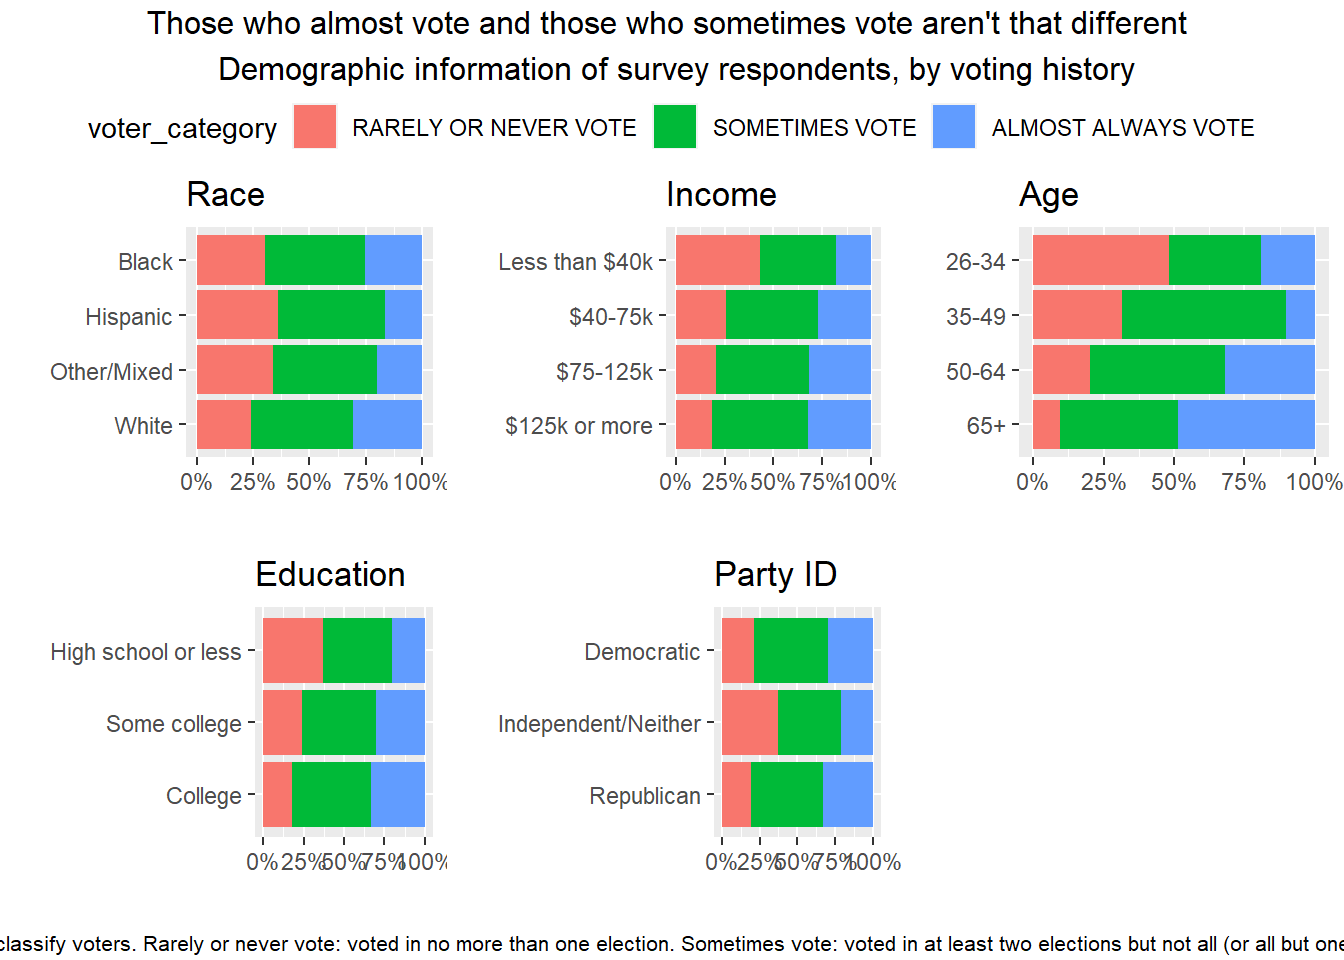
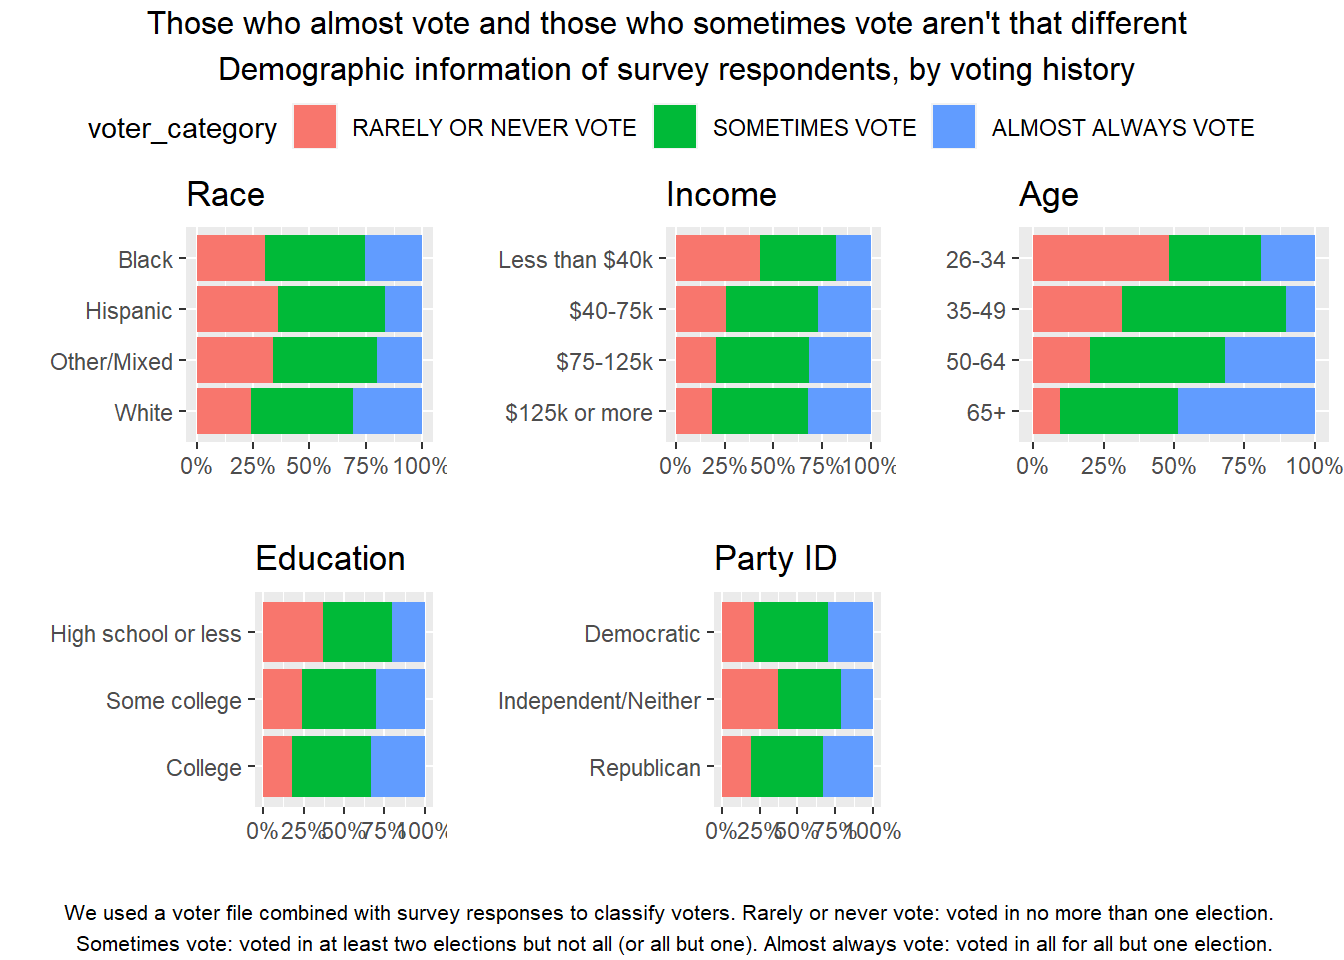
small changes

diff --git a/docs/visualization.html b/docs/visualization.html
@@ -438,13 +438,13 @@ $(document).ready(function () {
 <span id="cb21-11"><a href="#cb21-11" aria-hidden="true" tabindex="-1"></a>plot5<span class="ot">=</span><span class="fu">ggplot</span>(clean_data, <span class="fu">aes</span>(<span class="at">fill=</span>voter_category, <span class="at">x=</span>educ, <span class="at">y=</span>weight)) <span class="sc">+</span> <span class="fu">geom_bar</span>(<span class="at">position=</span><span class="st">&quot;fill&quot;</span>, <span class="at">stat=</span><span class="st">&quot;identity&quot;</span>) <span class="sc">+</span> <span class="fu">coord_flip</span>()<span class="sc">+</span> <span class="fu">scale_y_continuous</span>(<span class="at">labels=</span>scales<span class="sc">::</span>percent)<span class="sc">+</span><span class="fu">xlab</span>(<span class="at">label =</span> <span class="st">&quot;&quot;</span>) <span class="sc">+</span> <span class="fu">ylab</span>(<span class="at">label =</span> <span class="st">&quot;&quot;</span>) <span class="sc">+</span> <span class="fu">ggtitle</span>(<span class="st">&quot;Education&quot;</span>) <span class="sc">+</span> <span class="fu">scale_x_discrete</span>(<span class="at">limits =</span> <span class="fu">c</span>(<span class="st">&quot;College&quot;</span>,<span class="st">&quot;Some college&quot;</span>,<span class="st">&quot;High school or less&quot;</span>)) <span class="sc">+</span> <span class="fu">scale_fill_discrete</span>(<span class="at">limit =</span> <span class="fu">c</span>(<span class="st">&quot;RARELY OR NEVER VOTE&quot;</span>, <span class="st">&quot;SOMETIMES VOTE&quot;</span>, <span class="st">&quot;ALMOST ALWAYS VOTE&quot;</span>))</span>
 <span id="cb21-12"><a href="#cb21-12" aria-hidden="true" tabindex="-1"></a></span>
 <span id="cb21-13"><a href="#cb21-13" aria-hidden="true" tabindex="-1"></a><span class="co">#ggarange will show the five figure in the same position as the original visual. It also created a common legend for the fill variable. </span></span>
-<span id="cb21-14"><a href="#cb21-14" aria-hidden="true" tabindex="-1"></a>joint_plot <span class="ot">=</span> <span class="fu">ggarrange</span>(plot1, plot4, plot3, plot5, plot2, <span class="at">ncol=</span><span class="dv">3</span>, <span class="at">nrow=</span><span class="dv">2</span>, <span class="at">common.legend =</span> <span class="cn">TRUE</span>, <span class="at">legend=</span><span class="st">&quot;top&quot;</span> )</span>
+<span id="cb21-14"><a href="#cb21-14" aria-hidden="true" tabindex="-1"></a>joint_plot <span class="ot">=</span> <span class="fu">ggarrange</span>(plot1, plot4, plot3, plot5, plot2, <span class="at">ncol=</span><span class="dv">3</span>, <span class="at">nrow=</span><span class="dv">2</span>, <span class="at">common.legend =</span> <span class="cn">TRUE</span>, <span class="at">legend=</span><span class="st">&quot;top&quot;</span>,<span class="at">size=</span><span class="dv">15</span> )</span>
 <span id="cb21-15"><a href="#cb21-15" aria-hidden="true" tabindex="-1"></a></span>
 <span id="cb21-16"><a href="#cb21-16" aria-hidden="true" tabindex="-1"></a><span class="co">#annotate_figure will give the overall visual with a main title and a subtitle below the visual. </span></span>
-<span id="cb21-17"><a href="#cb21-17" aria-hidden="true" tabindex="-1"></a><span class="fu">annotate_figure</span>(joint_plot, <span class="at">top =</span> <span class="fu">text_grob</span>(<span class="st">&quot;Those who almost vote and those who sometimes vote aren&#39;t that different </span><span class="sc">\n</span><span class="st"> Demographic information of survey respondents, by voting history&quot;</span>), <span class="at">bottom =</span> <span class="fu">text_grob</span>(<span class="st">&quot;We used a voter file combined with survey responses to classify voters. Rarely or never vote: voted in no more than one election. Sometimes vote: voted in at least two elections but not all (or all but one). Almost always vote: voted in all for all but one election.&quot;</span>, <span class="at">size=</span><span class="dv">8</span>))</span></code></pre></div>
+<span id="cb21-17"><a href="#cb21-17" aria-hidden="true" tabindex="-1"></a><span class="fu">annotate_figure</span>(joint_plot, <span class="at">top =</span> <span class="fu">text_grob</span>(<span class="st">&quot;Those who almost vote and those who sometimes vote aren&#39;t that different </span><span class="sc">\n</span><span class="st"> Demographic information of survey respondents, by voting history&quot;</span>), <span class="at">bottom =</span> <span class="fu">text_grob</span>(<span class="st">&quot;We used a voter file combined with survey responses to classify voters. Rarely or never vote: voted in no more than one election. </span><span class="sc">\n</span><span class="st"> Sometimes vote: voted in at least two elections but not all (or all but one). Almost always vote: voted in all for all but one election.&quot;</span>, <span class="at">size=</span><span class="dv">8</span>))</span></code></pre></div>
 <p><img src="visualization_files/figure-html/plots-1.png" width="672" /></p>
 <p><br /></p>
-<p>Most of the visual looks almost exactly the same except the color. I tried to figure out the color but I could not figure that out. I feel like I have changed colors before but for some reason I could not figure it out for this exercise. Therefore, if anyone could suggest to me ways to change the color that would be great!</p>
+<p>Most of the visual looks roughly the same except the color and the size of the charts (I dont know exactly how to change the size of the figures). I tried to figure out the color but I could not figure that out. I feel like I have changed colors before but for some reason I could not figure it out for this exercise. Therefore, if anyone could suggest to me ways to change the color that would be great!</p>
 
 
 
